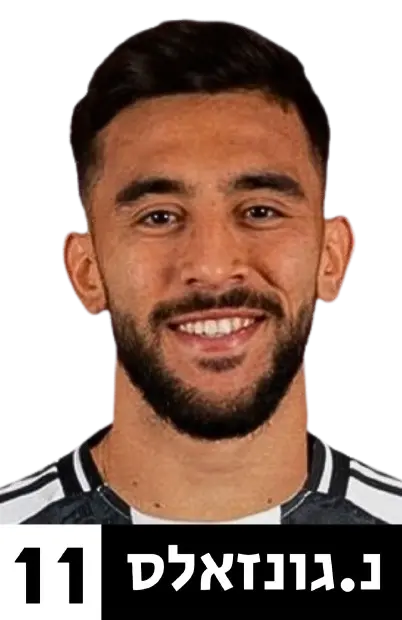
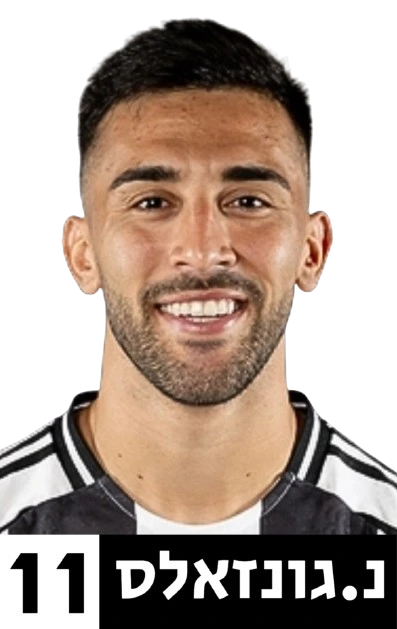
added new player images

diff --git a/juvSoccerLayout/scripts/data/playerInfos.js b/juvSoccerLayout/scripts/data/playerInfos.js
@@ -39,45 +39,48 @@ const playerInfos = {
     playerImage: 'mckennie'
   },
   '14': {
-    playerImage: 'arthur'
+    playerImage: 'adzic'
   },
   '15': {
-    playerImage: 'thuram'
+    playerImage: 'arthur'
   },
   '16': {
-    playerImage: 'fagioli'
+    playerImage: 'thuram'
   },
   '17': {
-    playerImage: 'weah'
+    playerImage: 'fagioli'
   },
   '18': {
-    playerImage: 'dluiz'
+    playerImage: 'weah'
   },
   '19': {
-    playerImage: 'cambiaso'
+    playerImage: 'dluiz'
   },
   '20': {
-    playerImage: 'cabal'
+    playerImage: 'cambiaso'
   },
   '21': {
-    playerImage: 'djalo'
+    playerImage: 'cabal'
   },
   '22': {
-    playerImage: 'savona'
+    playerImage: 'djalo'
   },
   '23': {
-    playerImage: 'rouhi'
+    playerImage: 'savona'
   },
   '24': {
-    playerImage: 'mbangula'
+    playerImage: 'rouhi'
   },
   '25': {
-    playerImage: 'perin'
+    playerImage: 'mbangula'
   },
   '26': {
-    playerImage: 'pinsoglio'
+    playerImage: 'perin'
   },
   '27': {
+    playerImage: 'pinsoglio'
+  },
+  '28': {
     playerImage: 'digregorio'
   }
 }
